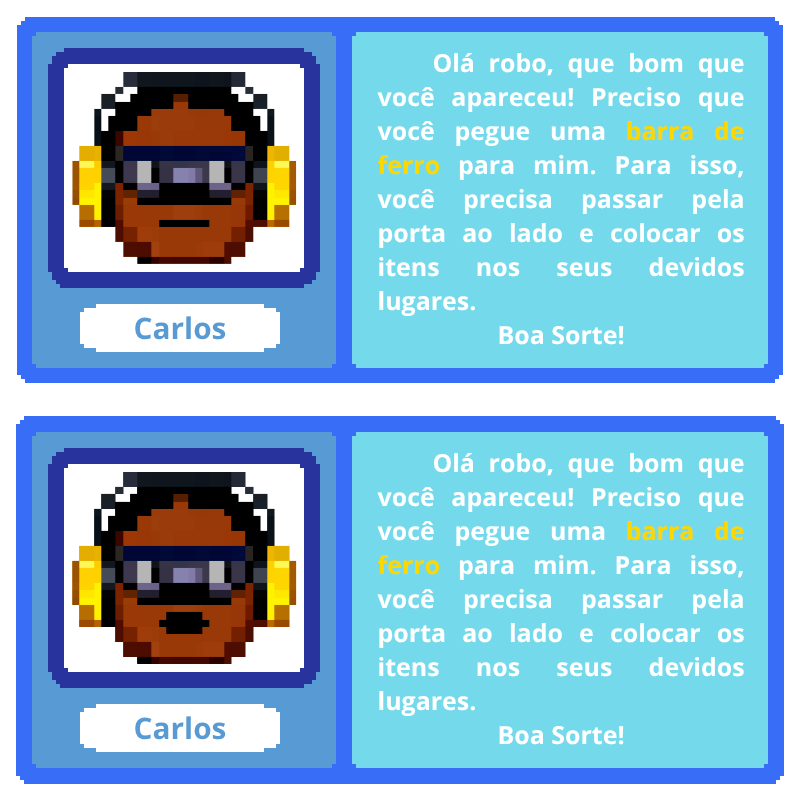
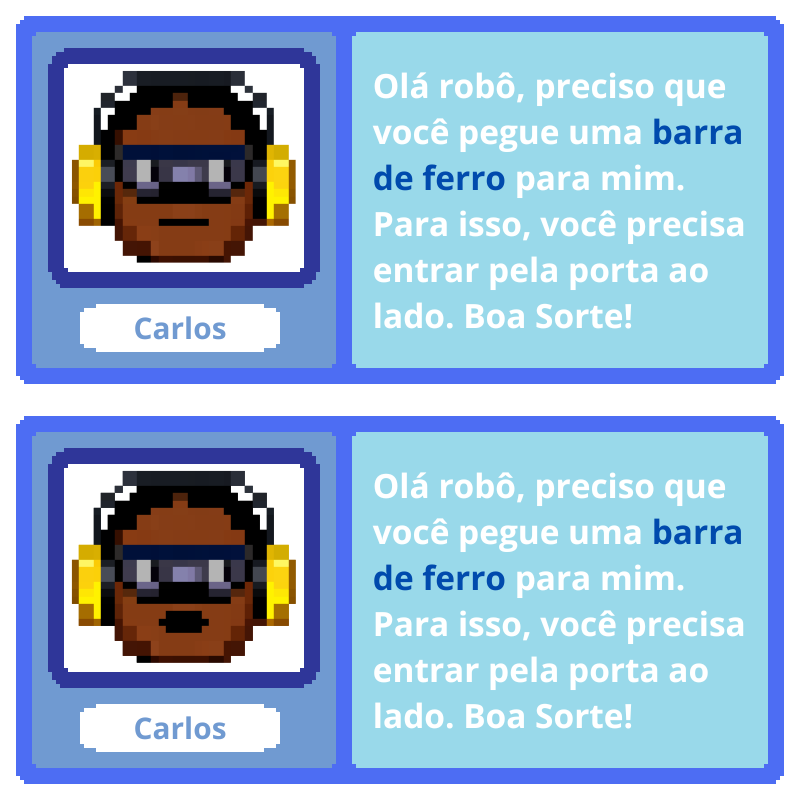
balao agradecimento npc3

diff --git a/core/src/main/java/com/osbarnabe/workbot/GameScreen.java b/core/src/main/java/com/osbarnabe/workbot/GameScreen.java
@@ -102,6 +102,9 @@ public class GameScreen implements Screen {
     private Texture balaoNPC1_2;
     private Animation<TextureRegion> animacaoBalao2;
 
+    private Texture balaoNPC3_2;
+    private Animation<TextureRegion> animacaoBalaoNPC3_2;
+
     public GameScreen(Main jogo) {
         this(jogo, 100f, 65f);
     }
@@ -143,6 +146,7 @@ public class GameScreen implements Screen {
         balaoNPC1 = jogo.assets.get("BalaoFala_NPC1.png", Texture.class);
         balaoNPC3 = jogo.assets.get("BalaoFala_NPC3.png", Texture.class);
         balaoNPC1_2 = jogo.assets.get("BalaoFala_NPC1_2.png", Texture.class);
+        balaoNPC3_2 = jogo.assets.get("BalaoFala_NPC3_2.png", Texture.class);
 
         animacaoBalao = new Animation<>(0.4f,
             extrairFrames(balaoNPC1,
@@ -182,6 +186,14 @@ public class GameScreen implements Screen {
                 balaoNPC1_2,
                 balaoNPC1_2.getWidth(),
                 balaoNPC1_2.getHeight() / 2,
+                2
+            )
+        );
+        animacaoBalaoNPC3_2 = new Animation<>(0.4f,
+            extrairFrames(
+                balaoNPC3_2,
+                balaoNPC3_2.getWidth(),
+                balaoNPC3_2.getHeight() / 2,
                 2
             )
         );
@@ -265,19 +277,33 @@ public class GameScreen implements Screen {
                 else if (pertoDoNPC(npc3X)) {
 
                     if (dialogoNPC3) {
-                        // FECHA
                         dialogoNPC3 = false;
+
+                        // PRIMEIRA VEZ
+                        if (!jogo.npc3Falou) {
+                            jogo.npc3Falou = true;
+                        }
+
+                        // SEGUNDA VEZ (pós puzzle)
+                        else if (jogo.puzzle2Completo) {
+                            jogo.npc3PosPuzzleFalou = true;
+                            jogo.puzzle2Completo = false; // opcional (rejogar)
+                        }
+
                     } else {
-                        // ABRE
-                        dialogoNPC3 = true;
+
+                        // PRIMEIRA INTERAÇÃO
+                        if (!jogo.npc3Falou) {
+                            dialogoNPC3 = true;
+                        }
+
+                        // SEGUNDA INTERAÇÃO (depois do puzzle)
+                        else if (jogo.puzzle2Completo && !jogo.npc3PosPuzzleFalou) {
+                            dialogoNPC3 = true;
+                        }
                     }
+
                     jogo.npc3Liberado = true;
-                }
-                else if (colideComPorta(porta1)) {
-                    porta1.interagir();
-                }
-                else if (colideComPorta(porta2)) {
-                    porta2.interagir();
                 }
 
                 podeInteragir = false;
@@ -448,7 +474,7 @@ public class GameScreen implements Screen {
             float altura  = frameBotao.getRegionHeight() * escala;
 
             float x = porta2.x + (porta2.largura / 2f) - (largura / 2f) - 45;
-            float y = 5200f;
+            float y = 520f;
 
             batch.draw(frameBotao, x, y, largura, altura);
         }
@@ -478,7 +504,14 @@ public class GameScreen implements Screen {
         }
 
         if (dialogoNPC3) {
-            TextureRegion frame = animacaoBalaoNPC3.getKeyFrame(elapsedTime, true);
+
+            TextureRegion frame;
+
+            if (!jogo.npc3Falou) {
+                frame = animacaoBalaoNPC3.getKeyFrame(elapsedTime, true);
+            } else {
+                frame = animacaoBalaoNPC3_2.getKeyFrame(elapsedTime, true);
+            }
 
             float larguraBalao = 800f;
             float alturaBalao = 400f;
@@ -504,7 +537,7 @@ public class GameScreen implements Screen {
 
             batch.draw(frameBotao, x, y, largura, altura);
 
-        } else if (!jogo.npc3Liberado) {
+        } else if (!jogo.npc3Falou || (jogo.puzzle2Completo && !jogo.npc3PosPuzzleFalou)){
 
             // ❗ SÓ aparece se NUNCA falou com o NPC
             batch.draw(animacaoPonto2.getKeyFrame(elapsedTime, true),

diff --git a/core/src/main/java/com/osbarnabe/workbot/LoadingScreen.java b/core/src/main/java/com/osbarnabe/workbot/LoadingScreen.java
@@ -53,6 +53,7 @@ public class LoadingScreen implements Screen {
         jogo.assets.load("BalaoFala_NPC3.png", Texture.class);
         jogo.assets.load("botaoInt.png", Texture.class);
         jogo.assets.load("BalaoFala_NPC1_2.png", Texture.class);
+        jogo.assets.load("BalaoFala_NPC3_2.png", Texture.class);
     }
 
     @Override

diff --git a/core/src/main/java/com/osbarnabe/workbot/puzzle2.java b/core/src/main/java/com/osbarnabe/workbot/puzzle2.java
@@ -222,6 +222,8 @@ public class puzzle2 implements Screen {
             if (transicaoAlpha >= 1f) {
                 transicaoAlpha = 1f;
                 jogo.setScreen(new GameScreen(jogo, 4600f, 50f));
+                jogo.puzzle2Completo = true;
+                jogo.npc3PosPuzzleFalou = false;
             }
         }
     }

diff --git a/core/src/main/java/com/osbarnabe/workbot/Main.java b/core/src/main/java/com/osbarnabe/workbot/Main.java
@@ -11,6 +11,9 @@ public class Main extends Game {
     public boolean npc3Liberado = false;
     public boolean puzzle2Completo = false;
 
+    public boolean npc3Falou = false;
+    public boolean npc3PosPuzzleFalou = false;
+
     // Gerenciador de assets compartilhado por todo o jogo
     public AssetManager assets;
 
